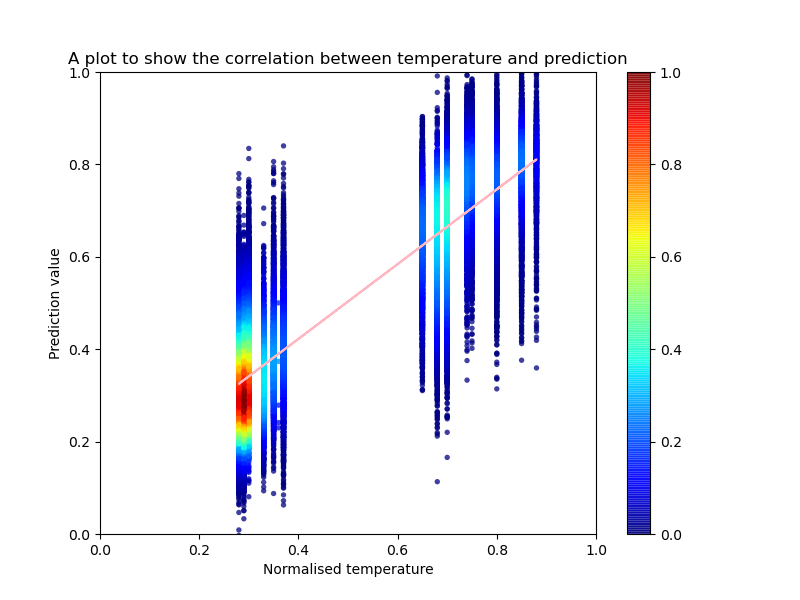
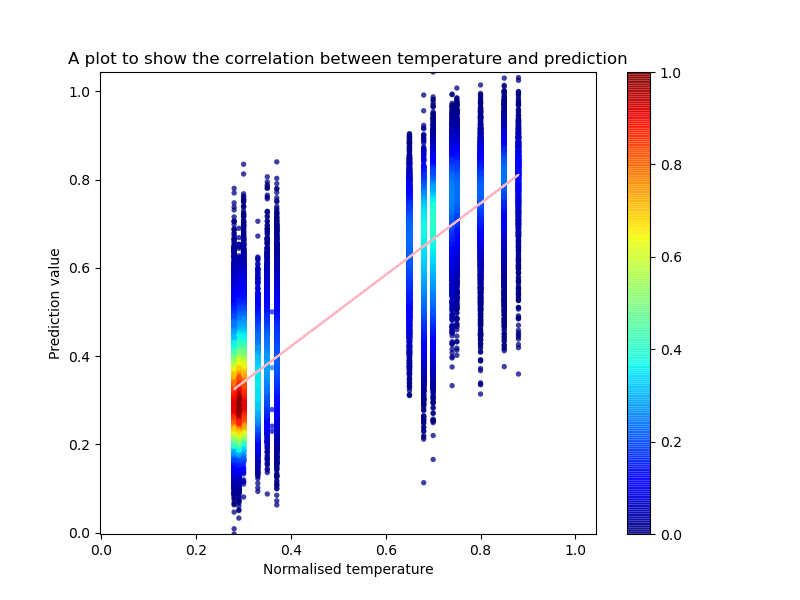
Added dynamic determination of axes.

diff --git a/scripts/003/003_plot_correlation.py b/scripts/003/003_plot_correlation.py
@@ -28,8 +28,12 @@ y = df['prediction']
 densities = densCols(x, y, nbin = 128)
 plt.figure(figsize=(8,6))
 plt.title('A plot to show the correlation between temperature and prediction')
-plt.ylim(round(float(sys.argv[3])), round(float(sys.argv[4])))
-plt.xlim(round(float(sys.argv[3])), round(float(sys.argv[4]))) 
+
+maximum = max([max(x), max(y)])
+minimum = min([min(x), min(y)])
+
+plt.ylim(minimum, maximum)
+plt.xlim(minimum, maximum) 
 plt.xlabel('Normalised temperature')
 plt.ylabel('Prediction value')
 sc = plt.scatter(x, y, c=densities, s=15, edgecolors='none', alpha=0.75, cmap=cm.jet)
